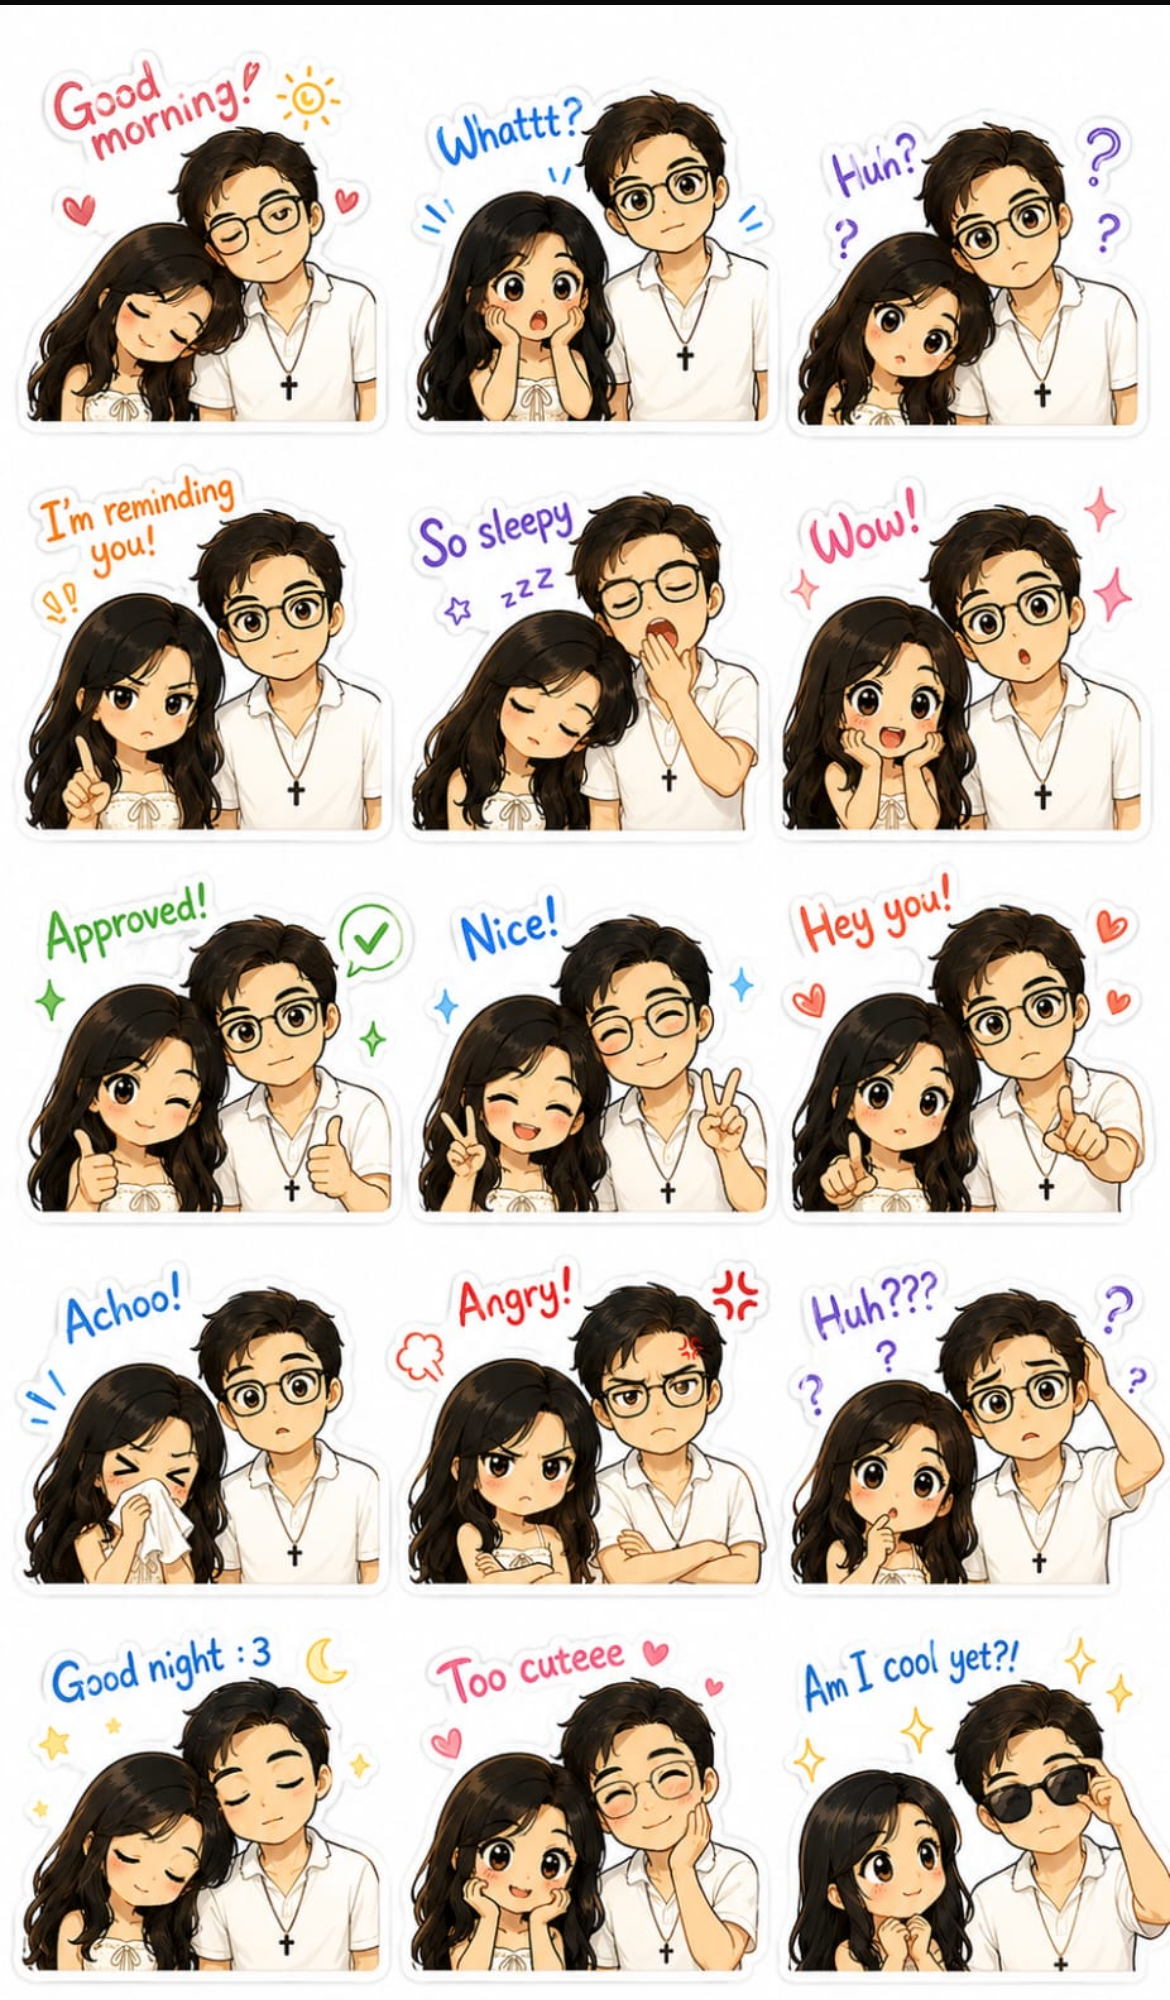
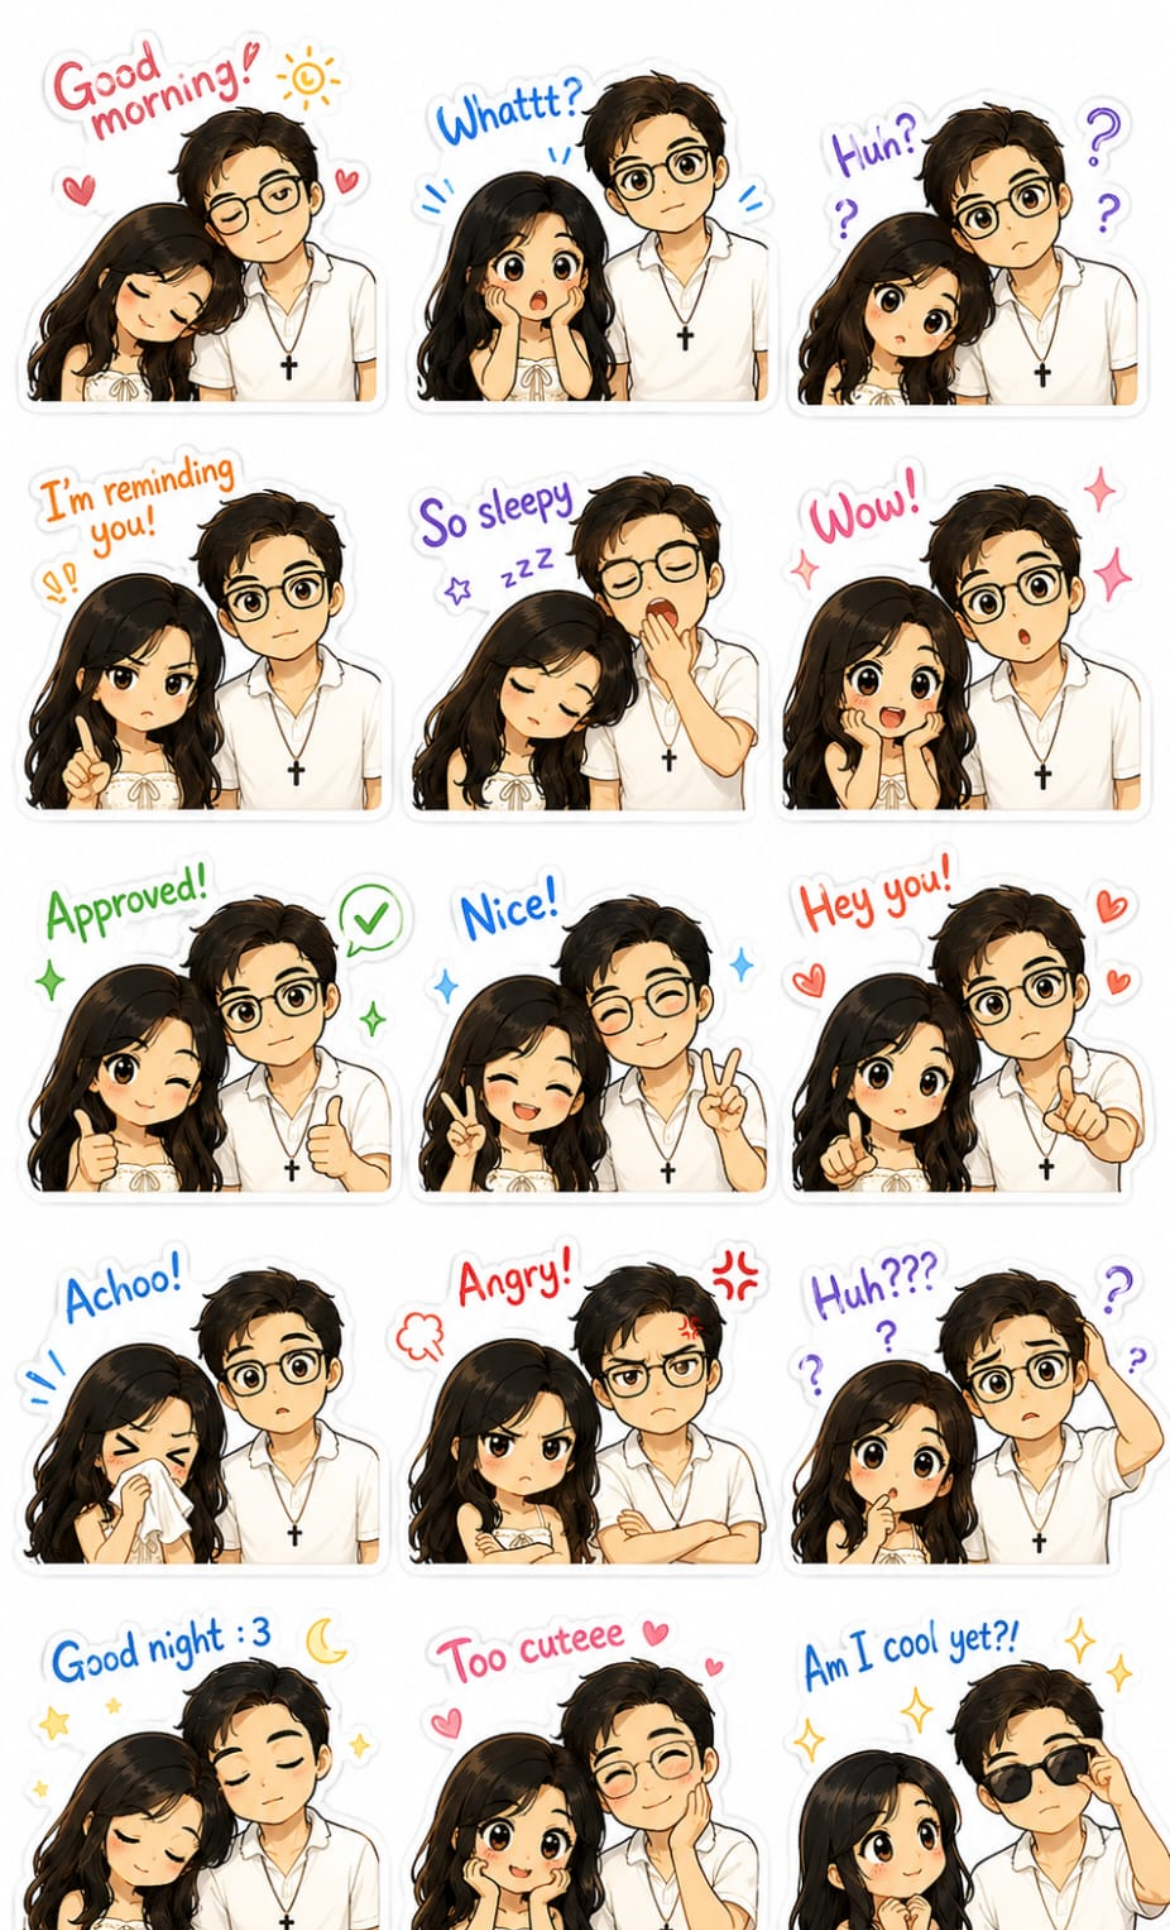
slightly adjusted wallpaper size to remove black bars

diff --git a/scripts/crop_stickers.py b/scripts/crop_stickers.py
@@ -1,8 +1,7 @@
 from PIL import Image
 
-image = Image.open("public/pictures/stickers.PNG")
+image = Image.open("scripts/stickers.PNG")
 print(image.size)
 
-cropped = image.crop((0, 250, 1170, 2250))
-
-cropped.save("cropped.png")
+cropped = image.crop((0, 270, 1170, 2250))
+cropped.save("scripts/cropped.png")